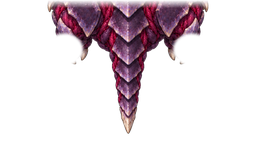
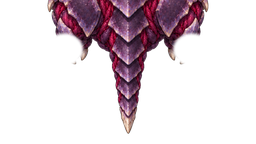
Rav Brute: the spine gives through a turn
The living body is drawn as its front and rear halves meeting mid-back,
each on its own axis. Turning bows the spine into the turn (0.1 deg per
deg/s, up to 18 deg, eased over 0.2 s), the halves hinged at the body's
outer edge so no gap opens. The rear half is now solid under the seam so
the halves together show no line. The motion suite gains a weaving panel.

Changed region(s): [[0.1875, 0.0, 0.8125, 0.0556]]

diff --git a/src/main/java/com/dillon/starsectormarines/battle/appearance/RavBruteRig.java b/src/main/java/com/dillon/starsectormarines/battle/appearance/RavBruteRig.java
@@ -97,7 +97,19 @@ public final class RavBruteRig {
     public static final int SHOULDER = 14, HIP = 15;
     /** The head's centre (where it pivots when it comes away) and the middle of the back (where it splits). */
     public static final int HEAD = 16, MID = 17;
-    static final int POINTS = 18;
+    /**
+     * Where the spine meets itself in the middle of the back, as the front half and as the rear half carry it:
+     * the same point while the back is straight, apart across the outside of a bend.
+     */
+    public static final int SEAM_FRONT = 18, SEAM_REAR = 19;
+    static final int POINTS = 20;
+    /**
+     * The spine's give through a turn: degrees of bend per degree a second of turning, the most it bends,
+     * and how quickly it takes the bend up. Stiffer and slower than a Runner's: a heavier back.
+     */
+    static final float BEND_PER_YAW_RATE = 0.1f, MAX_BEND = 18f, BEND_SECONDS = 0.2f;
+    /** The back bends about a hinge this far out from the spine, cells: the outer edge of the body at the seam. */
+    static final float HINGE_CELLS = 0.38f;
     /** Layer row of the head sprite's centre, ahead of the shoulders. */
     static final float HEAD_ROW = 224f;
 
@@ -135,6 +147,8 @@ public final class RavBruteRig {
     private float lunge, rear, frontLift;
     private boolean frontsLifted;
     private float stunTime = -1f, headYaw, daze;
+    /** Spine bend, degrees; positive bows the body into a left turn. */
+    private float bend;
 
     private final long seed;
     private boolean dead;
@@ -173,6 +187,9 @@ public final class RavBruteRig {
         }
         bodyX = posX;
         bodyY = posY;
+        float yawRate = (((facing - facingDeg) % 360f + 540f) % 360f - 180f) / dt;
+        float bendTarget = Math.max(-MAX_BEND, Math.min(MAX_BEND, yawRate * BEND_PER_YAW_RATE));
+        bend += (bendTarget - bend) * Math.min(1f, dt / BEND_SECONDS);
         facingDeg = facing;
         double rad = Math.toRadians(facing);
         float fwdX = (float) -Math.sin(rad), fwdY = (float) Math.cos(rad);
@@ -227,7 +244,40 @@ public final class RavBruteRig {
         set(HIP, swayH, HIP_Y + surge + lunge, HIP_Z - crouch * 1.6f + riseH - rear * 0.3f);
         set(MID, (x(SHOULDER) + x(HIP)) / 2, (y(SHOULDER) + y(HIP)) / 2, (z(SHOULDER) + z(HIP)) / 2);
         set(HEAD, x(SHOULDER), y(SHOULDER) + (SHOULDER_ROW - HEAD_ROW) / U_LAYER, z(SHOULDER));
+        bendSpine();
         solveLegs();
+    }
+
+    /**
+     * Bows the back into the turn: the forequarters and the head swing one way about the middle of the back
+     * and the hindquarters the other, so the body draws a shallow C toward the inside of the turn while the
+     * planted hooves stay put and the legs lean. The halves hinge at the outer edge of the body, where they
+     * stay joined; on the inside they press into each other.
+     */
+    private void bendSpine() {
+        float mx = x(MID), my = y(MID);
+        set(SEAM_FRONT, mx, my, z(MID));
+        set(SEAM_REAR, mx, my, z(MID));
+        if (Math.abs(bend) < 0.05f) return;
+        float ax = x(SHOULDER) - x(HIP), ay = y(SHOULDER) - y(HIP);
+        float an = Math.max(1e-4f, (float) Math.hypot(ax, ay));
+        float out = Math.signum(bend) * HINGE_CELLS;    // the outside of the turn: right, bending left
+        float hx = mx + ay / an * out, hy = my - ax / an * out;
+        turn(SHOULDER, hx, hy, bend / 2);
+        turn(HEAD, hx, hy, bend / 2);
+        turn(SEAM_FRONT, hx, hy, bend / 2);
+        turn(HIP, hx, hy, -bend / 2);
+        turn(SEAM_REAR, hx, hy, -bend / 2);
+        set(MID, (x(SEAM_FRONT) + x(SEAM_REAR)) / 2, (y(SEAM_FRONT) + y(SEAM_REAR)) / 2, z(MID));
+    }
+
+    /** Turns point p about (hx, hy) by degrees counter-clockwise. */
+    private void turn(int p, float hx, float hy, float degrees) {
+        double a = Math.toRadians(degrees);
+        float c = (float) Math.cos(a), s = (float) Math.sin(a);
+        float dx = x(p) - hx, dy = y(p) - hy;
+        pose[p * 3] = hx + dx * c - dy * s;
+        pose[p * 3 + 1] = hy + dx * s + dy * c;
     }
 
     private float push(int leg) {
@@ -450,6 +500,9 @@ public final class RavBruteRig {
     public float headK() { return headK; }
     /** How far the forequarters are reared up, cells; negative when driven down. */
     public float rear() { return rear; }
+
+    /** Spine bend this tick, degrees; positive bows the body into a left turn. */
+    public float bendDegrees() { return bend; }
     /** The head turned about the neck, degrees, counter-clockwise: a stunned Brute shaking it. */
     public float headYaw() { return headYaw; }
     /** Whether the hooves are planted this tick. */

diff --git a/src/test/java/com/dillon/starsectormarines/ops/battleview/RavBruteMotionSnapshotSuite.java b/src/test/java/com/dillon/starsectormarines/ops/battleview/RavBruteMotionSnapshotSuite.java
@@ -22,9 +22,9 @@ import java.util.function.Function;
 /**
  * The Rav Bloom Brute's motion and death, large enough to judge: its skeleton ({@link RavBruteRig}) stepped
  * every tick and drawn through the production {@link RavBruteComposer}, so this is exactly what the battle
- * draws, magnified, each camera on its Brute. The motion recording has three panels: walking into a trot,
- * blows thrown with the whole body, and a charge (the tell, the gallop, then stunned against something
- * heavy). The death recording kills four Brutes mid-action and lets them burst over the Runner's ichor.
+ * draws, magnified, each camera on its Brute. The motion recording has four panels: walking into a trot,
+ * weaving left and right (the back bending into each turn), blows thrown with the whole body, and a charge
+ * (the tell, the gallop, then stunned against something heavy). The death recording kills four Brutes mid-action and lets them burst over the Runner's ichor.
  * 1920x1080 at 100% scale, one frame per simulation tick.
  */
 public final class RavBruteMotionSnapshotSuite implements SnapshotSuite {
@@ -71,7 +71,7 @@ public final class RavBruteMotionSnapshotSuite implements SnapshotSuite {
     /** One tick of each scripted Brute: where it is, and what it is doing. */
     private static final class Actor {
         final RavBruteRig rig;
-        float x, y, cooldown = 1f;
+        float x, y, facing, cooldown = 1f;
 
         Actor(long seed) {
             rig = new RavBruteRig(seed);
@@ -82,6 +82,15 @@ public final class RavBruteMotionSnapshotSuite implements SnapshotSuite {
             float speed = tick < 40 ? 0.9f : 1.8f;
             y += speed * DT;
             rig.advance(x, y, 0f, 1f, RavBruteRig.IDLE, false, DT);
+        }
+
+        /** Trots a weave, turning one way then the other at up to about a hundred degrees a second. */
+        void weave(int tick) {
+            facing = 50f * (float) Math.sin(2 * Math.PI * tick * DT / 3.0);
+            double rad = Math.toRadians(facing);
+            x += (float) -Math.sin(rad) * 1.8f * DT;
+            y += (float) Math.cos(rad) * 1.8f * DT;
+            rig.advance(x, y, facing, 1f, RavBruteRig.IDLE, false, DT);
         }
 
         /** Stands and strikes as the battle's cooldown cycles: the blow lands as it runs out. */
@@ -103,24 +112,27 @@ public final class RavBruteMotionSnapshotSuite implements SnapshotSuite {
     }
 
     private List<BufferedImage> motion(RavBruteAssets art) {
-        Actor walker = new Actor(3L), striker = new Actor(5L), charger = new Actor(7L);
+        Actor walker = new Actor(3L), weaver = new Actor(4L), striker = new Actor(5L), charger = new Actor(7L);
         List<BufferedImage> frames = new ArrayList<>();
         for (int tick = 0; tick < TICKS; tick++) {
             walker.trot(tick);
+            weaver.weave(tick);
             striker.strike();
             charger.charge(tick);
             BufferedImage output = canvas();
             Graphics2D g = graphics(output);
-            for (int p = 0; p < 3; p++) panel(g, 40 + p * 620, 600);
+            for (int p = 0; p < 4; p++) panel(g, 40 + p * 465, 445);
             text(g, "RAV BLOOM BRUTE / MOTION ON ITS SKELETON", 40, 52, 28);
             text(g, "1920 × 1080 · 100%% UI scale · production RavBruteComposer · %.0f px per cell · tick %d"
                     .formatted(PPC, tick), 40, 86, 17);
             text(g, "Walking, then trotting (from tick 40)", 50, 1050, 15);
-            text(g, "Blows: weight back, forequarters up, drive through", 670, 1050, 15);
-            text(g, "Charge: tell, gallop, stunned, standing", 1290, 1050, 15);
-            draw(g, art, null, walker.rig, 340, 620);
-            draw(g, art, null, striker.rig, 960, 620);
-            draw(g, art, null, charger.rig, 1580, 620);
+            text(g, "Weaving: the back bends %+.0f°".formatted(weaver.rig.bendDegrees()), 515, 1050, 15);
+            text(g, "Blows: weight back, forequarters up, drive", 980, 1050, 15);
+            text(g, "Charge: tell, gallop, stunned, standing", 1445, 1050, 15);
+            draw(g, art, null, walker.rig, 262, 620);
+            draw(g, art, null, weaver.rig, 727, 620);
+            draw(g, art, null, striker.rig, 1192, 620);
+            draw(g, art, null, charger.rig, 1657, 620);
             g.dispose();
             frames.add(output);
         }

diff --git a/src/main/java/com/dillon/starsectormarines/ops/battleview/RavBruteComposer.java b/src/main/java/com/dillon/starsectormarines/ops/battleview/RavBruteComposer.java
@@ -17,7 +17,7 @@ final class RavBruteComposer {
     private static final float SCALE = 0.25f;
     private static final float U = RavBruteRig.U_LAYER;
     /** Layer rows: the canvas centre, the neck pivot, and the head sprite's centre (it is rows 0..448). */
-    private static final float CANVAS_CENTRE_ROW = 768f, NECK_ROW = 384f, HEAD_CENTRE_ROW = 224f;
+    private static final float NECK_ROW = 384f, HEAD_CENTRE_ROW = 224f;
     /** Layer width of the front and hind shanks. */
     private static final float[] SHANK_W = {120f, 135f};
     /** The owner asked for bigger feet; a raised hoof is nearer the camera. */
@@ -26,6 +26,8 @@ final class RavBruteComposer {
     private static final float REAR_SCALE = 0.9f;
     /** Layer rows of the centres of the body's front half (rows 0..990) and rear half (rows 958..1536). */
     private static final float FRONT_CENTRE_ROW = 495f, REAR_CENTRE_ROW = 1247f;
+    /** Layer row where the halves meet: the middle of the back, halfway between the shoulders and the hips. */
+    private static final float SEAM_ROW = (RavBruteRig.SHOULDER_ROW + RavBruteRig.HIP_ROW) / 2;
     /** Hind legs under the front ones, as the study layers them. */
     private static final int[] LEG_ORDER = {2, 3, 0, 1};
 
@@ -73,18 +75,27 @@ final class RavBruteComposer {
                     width, ln + width, angle, 1f, 1f, 1f, alpha);
         }
 
-        // the body axis: a layer row r lies at shoulder + (shoulder - hip) * (SHOULDER_ROW - r) / span
-        float shX = rig.x(RavBruteRig.SHOULDER), shY = rig.y(RavBruteRig.SHOULDER);
-        float hpX = rig.x(RavBruteRig.HIP), hpY = rig.y(RavBruteRig.HIP);
-        float span = RavBruteRig.HIP_ROW - RavBruteRig.SHOULDER_ROW;
-        float axX = (shX - hpX) / span, axY = (shY - hpY) / span;     // cells per layer row, toward the head
-        float bodyAngle = facing + (float) Math.toDegrees(Math.atan2(-axX, axY));
-        // Its length is the axis's, so the sprite's shoulders and hips stay on the joints the legs hang from;
-        // a reared forequarter nearer the camera widens it, never lengthens it past the hips.
+        // The body in two halves that bend at the middle of the back, each on its own axis: a layer row r of the
+        // front half lies at shoulder + (shoulder - seam) * (SHOULDER_ROW - r) / span, the rear half's likewise
+        // from the hip. Each half's length is its axis's, so the sprite's shoulders and hips stay on the joints
+        // the legs hang from; a reared forequarter nearer the camera widens it, never lengthens it.
         float k = spritePx * (1f + REAR_SCALE * rig.rear());
-        float along = spritePx * (float) Math.hypot(axX, axY) * U;
-        rowPoint(shX, shY, axX, axY, CANVAS_CENTRE_ROW, cx, cy, ppc, fx, fy, a);
-        out.add(art.body, a[0], a[1], art.body.pxWidth * k, art.body.pxHeight * along,
+        float halfSpan = RavBruteRig.HIP_ROW - SEAM_ROW;
+        float hpX = rig.x(RavBruteRig.HIP), hpY = rig.y(RavBruteRig.HIP);
+        float rX = (rig.x(RavBruteRig.SEAM_REAR) - hpX) / halfSpan, rY = (rig.y(RavBruteRig.SEAM_REAR) - hpY) / halfSpan;
+        toScreen(hpX + rX * (RavBruteRig.HIP_ROW - REAR_CENTRE_ROW), hpY + rY * (RavBruteRig.HIP_ROW - REAR_CENTRE_ROW),
+                cx, cy, ppc, fx, fy, a);
+        out.add(art.bodyRear, a[0], a[1], art.bodyRear.pxWidth * k,
+                art.bodyRear.pxHeight * spritePx * (float) Math.hypot(rX, rY) * U,
+                facing + (float) Math.toDegrees(Math.atan2(-rX, rY)), 1f, 1f, 1f, alpha);
+        float shX = rig.x(RavBruteRig.SHOULDER), shY = rig.y(RavBruteRig.SHOULDER);
+        float frontSpan = SEAM_ROW - RavBruteRig.SHOULDER_ROW;
+        float axX = (shX - rig.x(RavBruteRig.SEAM_FRONT)) / frontSpan;   // cells per layer row, toward the head
+        float axY = (shY - rig.y(RavBruteRig.SEAM_FRONT)) / frontSpan;
+        float bodyAngle = facing + (float) Math.toDegrees(Math.atan2(-axX, axY));
+        rowPoint(shX, shY, axX, axY, FRONT_CENTRE_ROW, cx, cy, ppc, fx, fy, a);
+        out.add(art.bodyFront, a[0], a[1], art.bodyFront.pxWidth * k,
+                art.bodyFront.pxHeight * spritePx * (float) Math.hypot(axX, axY) * U,
                 bodyAngle, 1f, 1f, 1f, alpha);
 
         // the head: slides along the axis by its dy, scales about the neck, and turns about it

diff --git a/art-source/rav-redesign/export_brute_rig.py b/art-source/rav-redesign/export_brute_rig.py
@@ -9,8 +9,9 @@ Writes mod/graphics/battle/rav-brute/*.png, every sprite head-up (forward is the
                   (body-nohead.png) that fills what a moved head or hoof uncovers; the whole 1024x1536
                   layer canvas, so the hero's rows and columns are the sprite's, times SCALE
   body-front.png, body-rear.png   the same body cut across between the shoulders and the hips, at
-                  SPLIT_ROW with a soft seam FEATHER rows either side, for the halves a dead Brute bursts
-                  into: rows 0..SPLIT_ROW+FEATHER and SPLIT_ROW-FEATHER..1536
+                  SPLIT_ROW, for the two halves the living body bends between and a dead Brute bursts
+                  into: rows 0..SPLIT_ROW+FEATHER, fading out over the seam, and SPLIT_ROW-FEATHER..1536,
+                  solid under it
   head.png        the head, rows 0..HEAD_ROWS of the layer canvas; it pivots at the neck (512, 384)
   hoof-fl/fr/hl/hr.png   each hoof cut from the hero, centred on the hoof
   shank-f/h-l/r.png      the shank above each hoof from the generated leg layers, the hip end at the top,
@@ -67,7 +68,9 @@ def main():
     front_k = np.clip((SPLIT_ROW + FEATHER - rows) / (2 * FEATHER), 0, 1)
     ba = np.asarray(body.getchannel("A")).astype(float)
     front = with_alpha(body, ba * front_k).crop((0, 0, size[0], SPLIT_ROW + FEATHER))
-    rear = with_alpha(body, ba * (1 - front_k)).crop((0, SPLIT_ROW - FEATHER, size[0], size[1]))
+    # the rear half is solid under the seam and the front fades over it, so the two drawn together make the
+    # whole body with no thin line where they meet, however the spine bends between them
+    rear = with_alpha(body, ba).crop((0, SPLIT_ROW - FEATHER, size[0], size[1]))
     scaled(front).save(OUT / "body-front.png")
     scaled(rear).save(OUT / "body-rear.png")
 

diff --git a/roadmap/colony-breach/design/colony-breach-nouns.md b/roadmap/colony-breach/design/colony-breach-nouns.md
@@ -669,7 +669,10 @@ for one job in the cycle, and reads that way on screen.
   body and the shanks over them. It walks, trots and gallops with the hips
   and shoulders swaying against each other; it plants its feet to stand, to
   brace for the tell and while it can't act, and gallops through a charge with
-  its head down. A blow is the whole body's, timed off the attack cooldown as
+  its head down. Its back gives: the body is drawn as front and rear halves
+  that meet in the middle of the back, and through a turn the spine bows into
+  it, stiffer and slower than a Runner's, the halves hinged at the outer edge
+  so they never open a gap. A blow is the whole body's, timed off the attack cooldown as
   the Runner's arms are: the weight goes back onto the hind legs and the
   forequarters rise, then it drives forward through the shoulders, the front
   hooves stamping down ahead and the head driving with them; a charge's hit
